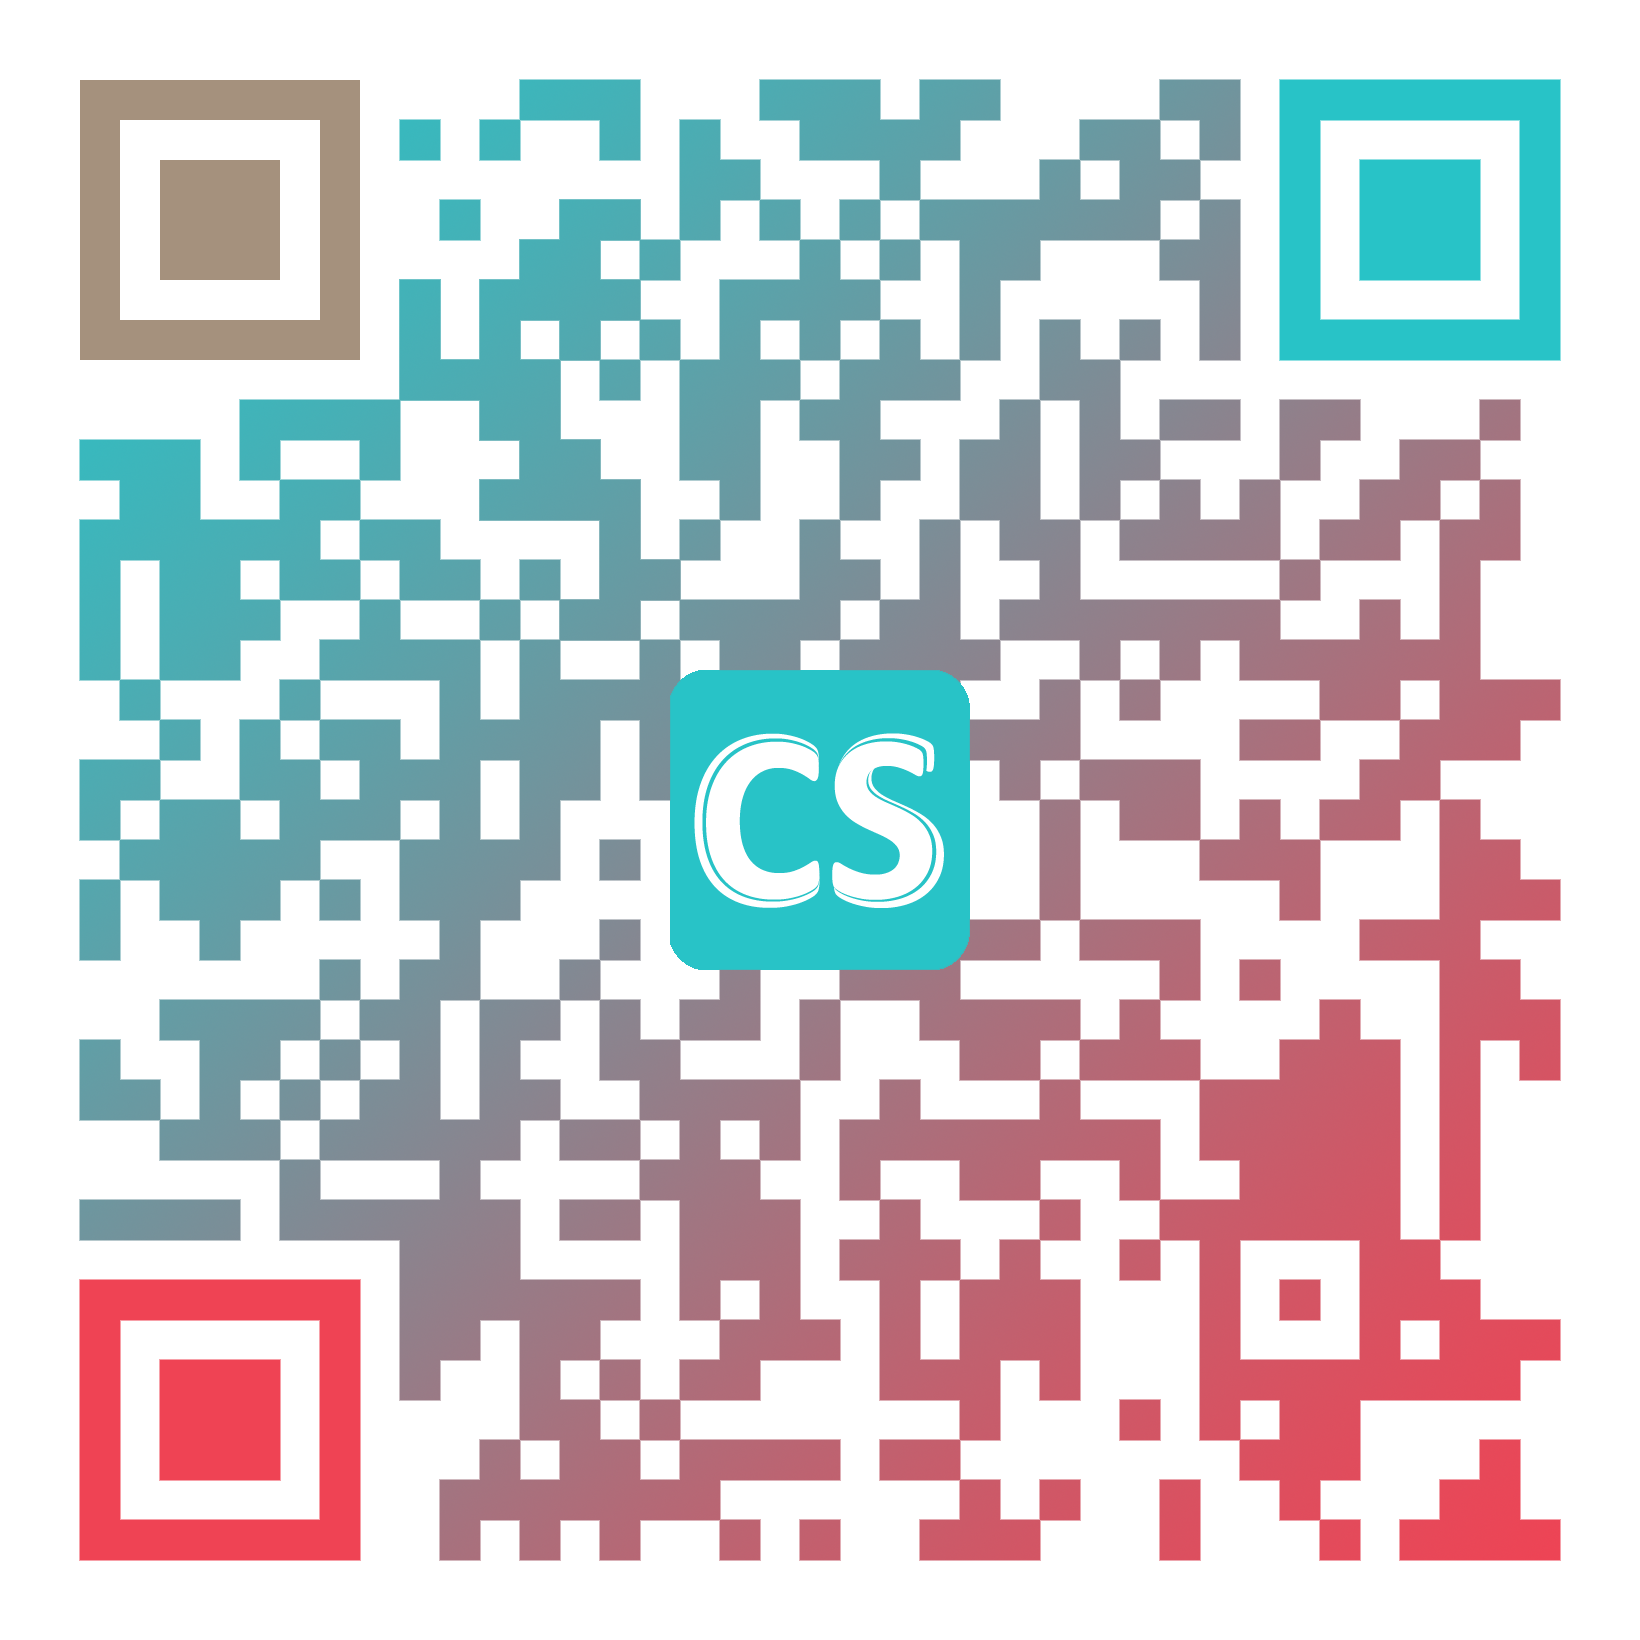
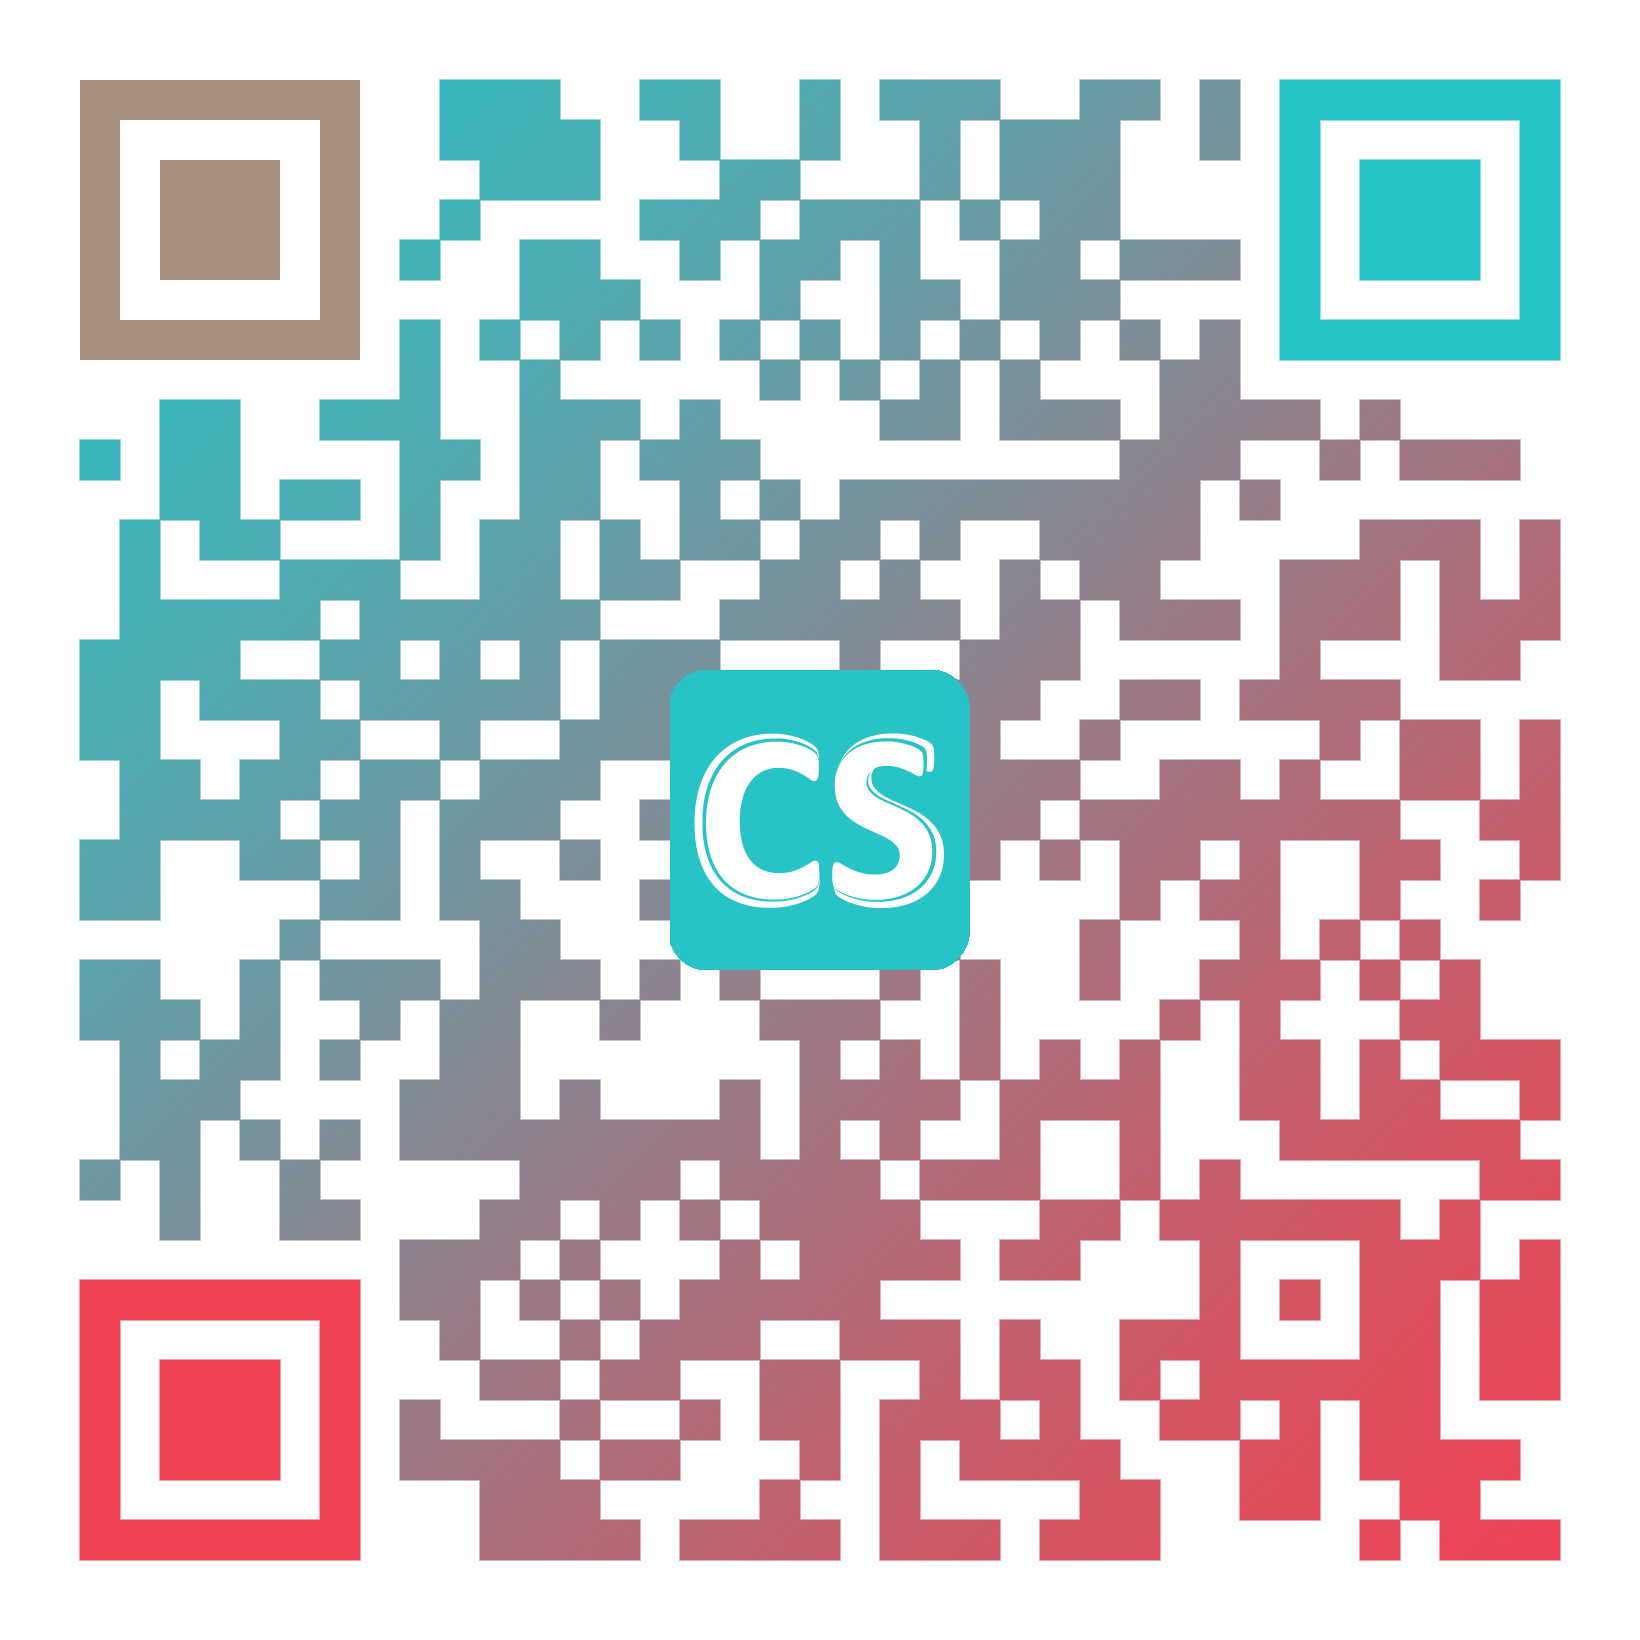
update picture

diff --git a/index.html b/index.html
@@ -12,11 +12,11 @@ title: ConnecSync
 <table class="table-responsive" border="0">
     <tbody>
         <tr>
-        	<td rowspan="4"><img class="img-responsive" src="./graphics/shihhor.png" width="120px" height="160px"></td>
-            <td>Email: shihhor@connecsync.com</td>
+        	<td rowspan="4"><img class="img-responsive" src="./graphics/sherry.jpg" width="120px" height="160px"></td>
+            <td>Email: sherry@connecsync.com</td>
         </tr>
         <tr>
-            <td>Mobile: +65 9177 7189</td>
+            <td>Mobile: +65 9112 1888</td>
         </tr>
         <tr>
             <td>Office: +65 6532 4300</td>

diff --git a/_site/index.html b/_site/index.html
@@ -32,11 +32,11 @@
 <table class="table-responsive" border="0">
     <tbody>
         <tr>
-        	<td rowspan="4"><img class="img-responsive" src="./graphics/angie_cv_photo.jpg" width="120px" height="160px"></td>
-            <td>Email: angie@connecsync.com</td>
+        	<td rowspan="4"><img class="img-responsive" src="./graphics/sherry.jpg" width="120px" height="160px"></td>
+            <td>Email: shihhor@connecsync.com</td>
         </tr>
         <tr>
-            <td>Mobile: +65 9455 3237</td>
+            <td>Mobile: +65 9177 7189</td>
         </tr>
         <tr>
             <td>Office: +65 6532 4300</td>

diff --git a/thankyou.html b/thankyou.html
@@ -10,7 +10,7 @@ $(document).ready(function(){
 	  $("#msg").text("Request sent");
 	});
 	$( "#sync" ).click(function() {
-	  window.location = "./graphics/shihhor-vcf.vcf"
+	  window.location = "./graphics/sherry.vcf"
 	});
 });
 </script>
@@ -34,7 +34,7 @@ $(document).ready(function(){
 <p><img src="./graphics/qrcode.png" width="100px" height="100px"></p>
 <form>
    
-		<p>You may know Shih Hor in other social circles:</p>
+		<p>You may know Sherry in other social circles:</p>
 		<div class="checkbox">
   			<label>
     			<input type="checkbox" value="" checked >

diff --git a/_site/thankyou.html b/_site/thankyou.html
@@ -30,7 +30,7 @@ $(document).ready(function(){
 	  $("#msg").text("Request sent");
 	});
 	$( "#sync" ).click(function() {
-	  window.location = "./graphics/Angie.vcf"
+	  window.location = "./graphics/sherry.vcf"
 	});
 });
 </script>
@@ -54,7 +54,7 @@ $(document).ready(function(){
 <p><img src="./graphics/qrcode.png" width="100px" height="100px"></p>
 <form>
    
-		<p>You may know Angie in other social circles:</p>
+		<p>You may know Shih Hor in other social circles:</p>
 		<div class="checkbox">
   			<label>
     			<input type="checkbox" value="" checked >

diff --git a/_site/README.md b/_site/README.md
@@ -1,4 +1,4 @@
-ConnecSync
-==========
+connecsync-sherry-tran.github.io
+================================
 
 project for Angie
